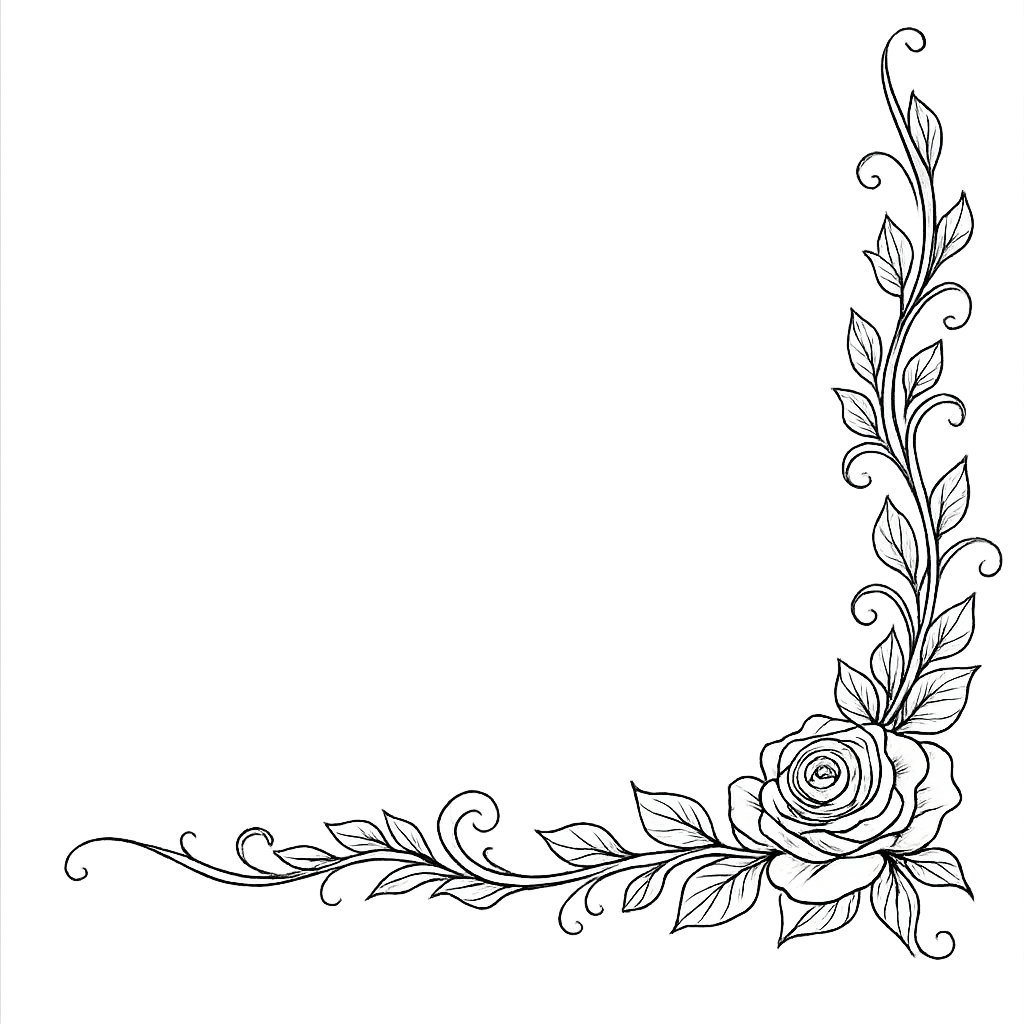
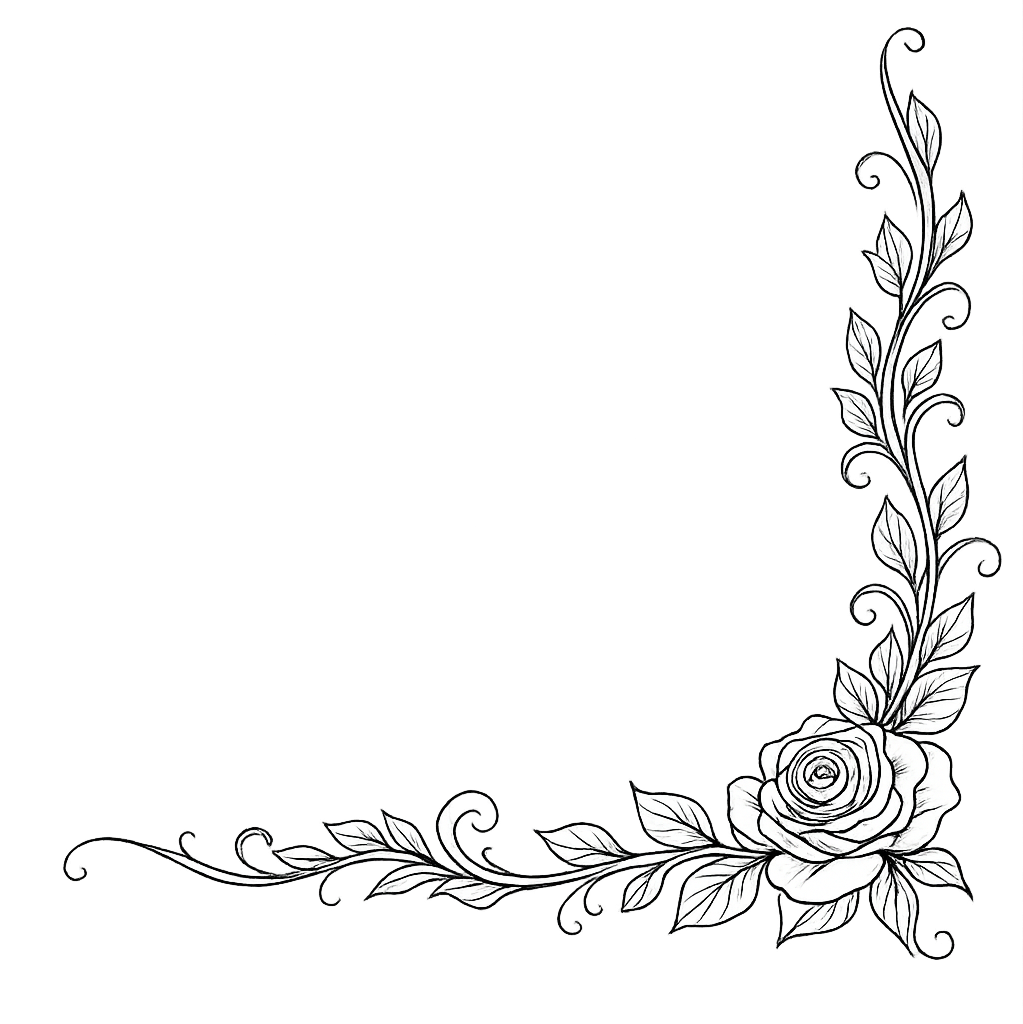
lock landing page scroll, fix corner art, match fonts, smooth transitions

diff --git a/css/styles.css b/css/styles.css
@@ -22,11 +22,16 @@
 
 html {
   font-size: 100%;
+  overflow: hidden;
+  height: 100%;
+  height: 100dvh;
 }
 
 body {
   margin: 0;
-  min-height: 100vh;
+  height: 100%;
+  height: 100dvh;
+  overflow: hidden;
   font-family: var(--font-body);
   background: var(--bg);
   color: var(--text);
@@ -114,7 +119,9 @@ button {
 
 .app-shell,
 .poster-stage {
-  min-height: 100vh;
+  height: 100vh;
+  height: 100dvh;
+  overflow: hidden;
 }
 
 .poster-stage {
@@ -597,7 +604,6 @@ button {
 .corner-art--bottom-right {
   bottom: 0;
   right: 0;
-  clip-path: inset(0 0 0 3%);
 }
 
 /* ── Browse UI ─────────────────────────────────── */